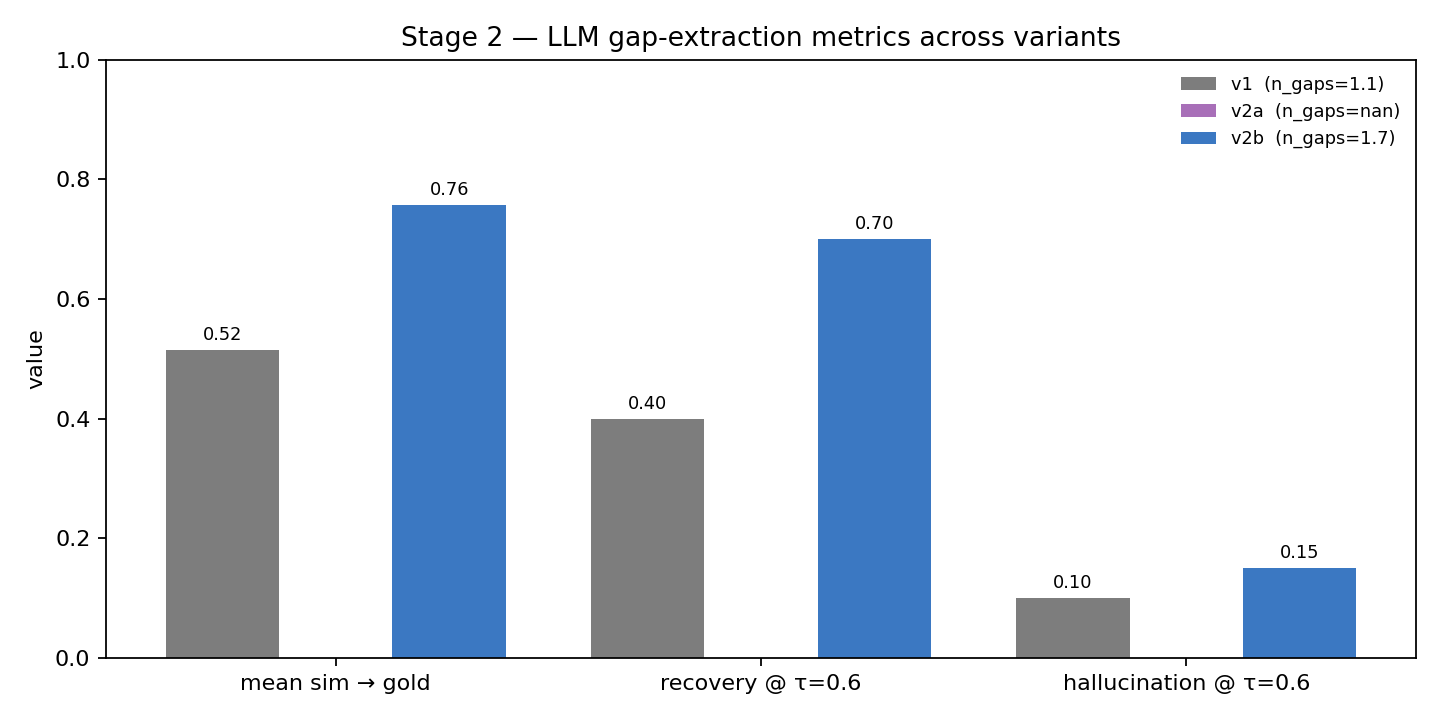
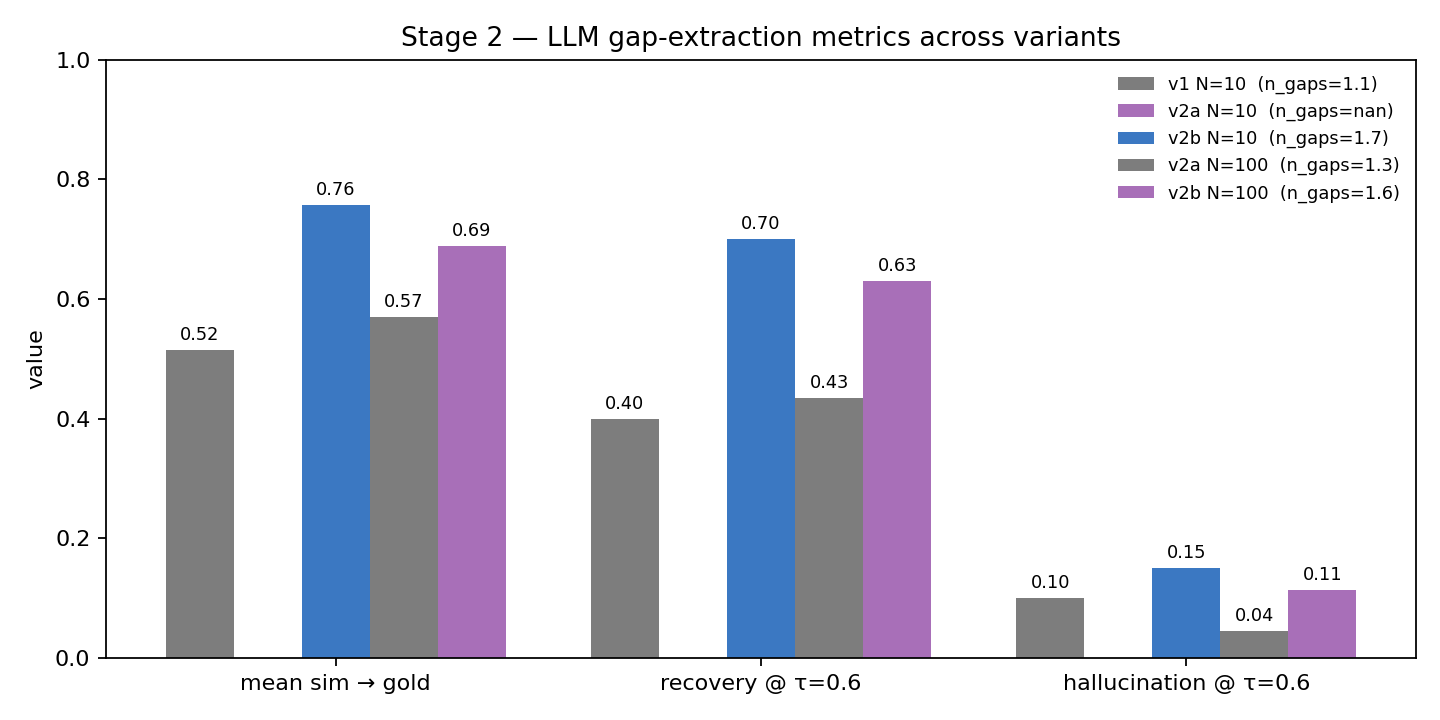
plots(bench): regenerate ablation plots including N=100 variants
v2a and v2b at N=100 now appear alongside the N=10 ablation bars; the cross-scale picture shows v2b dominating at both corpus sizes and v2a improving with scale as the new heading vocabulary catches more surviving heading lines.

diff --git a/src/gap2idea/pipeline/extraction_bench_ablation_plots.py b/src/gap2idea/pipeline/extraction_bench_ablation_plots.py
@@ -19,9 +19,11 @@ from gap2idea.utils import get_logger
 log = get_logger(__name__)
 
 DEFAULT_VARIANTS = [
-    ("v1",  Path("data/bench")),
-    ("v2a", Path("data/bench_v2a")),
-    ("v2b", Path("data/bench_v2b")),
+    ("v1 N=10",   Path("data/bench")),
+    ("v2a N=10",  Path("data/bench_v2a")),
+    ("v2b N=10",  Path("data/bench_v2b")),
+    ("v2a N=100", Path("data/bench_n100_v2a")),
+    ("v2b N=100", Path("data/bench_n100")),
 ]
 
 
